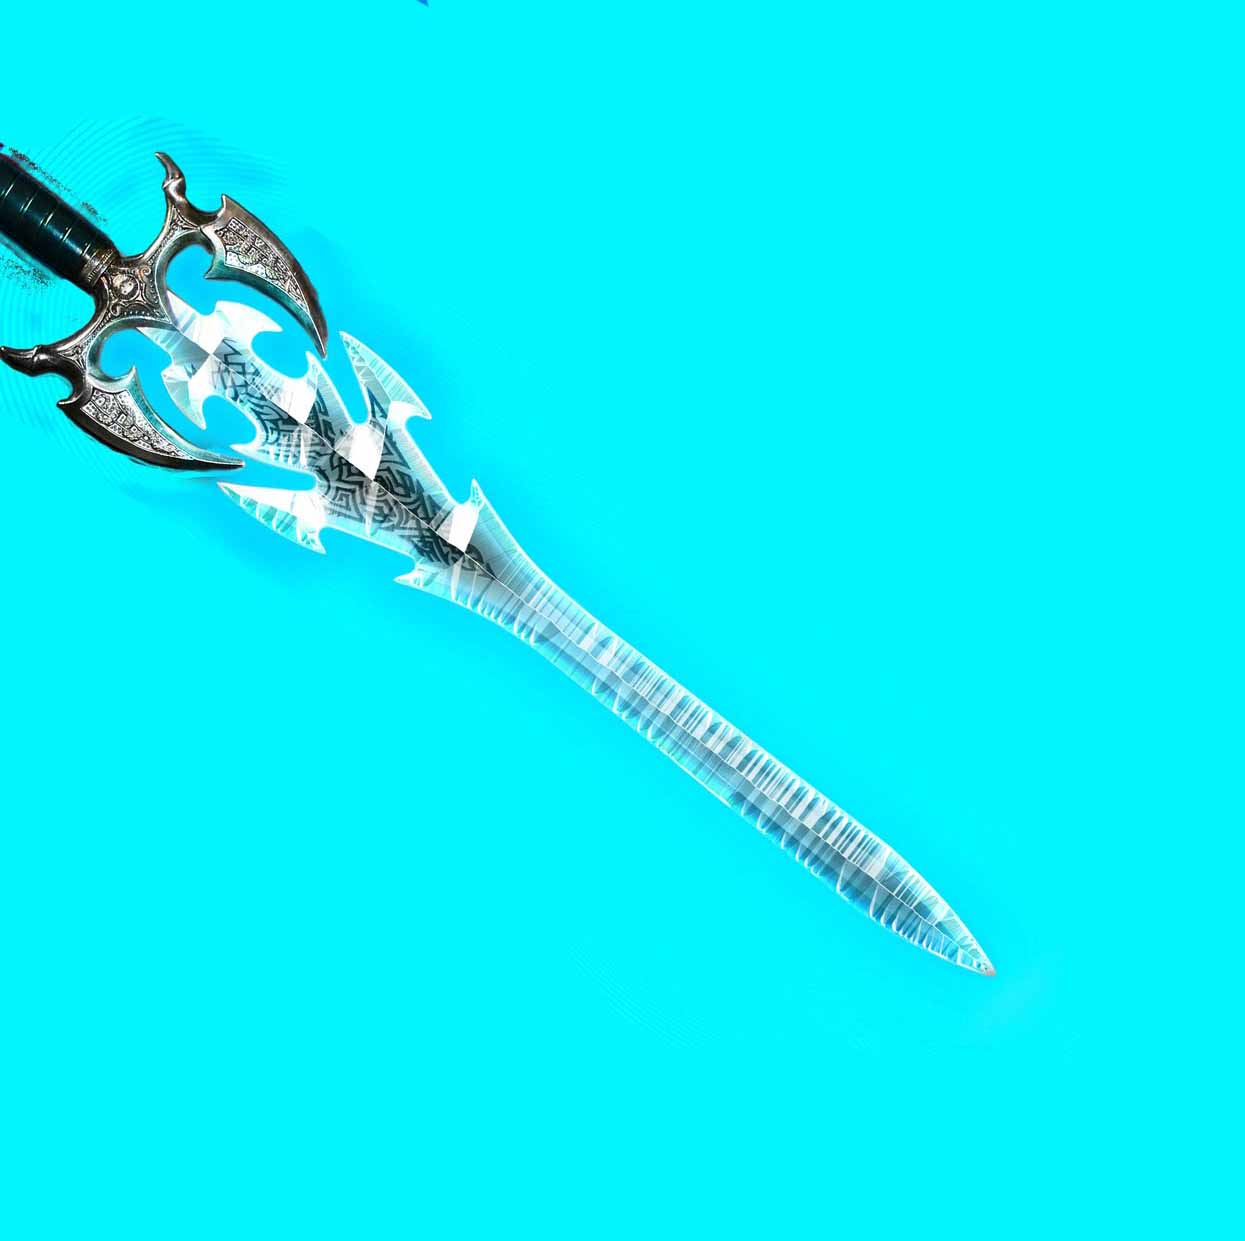
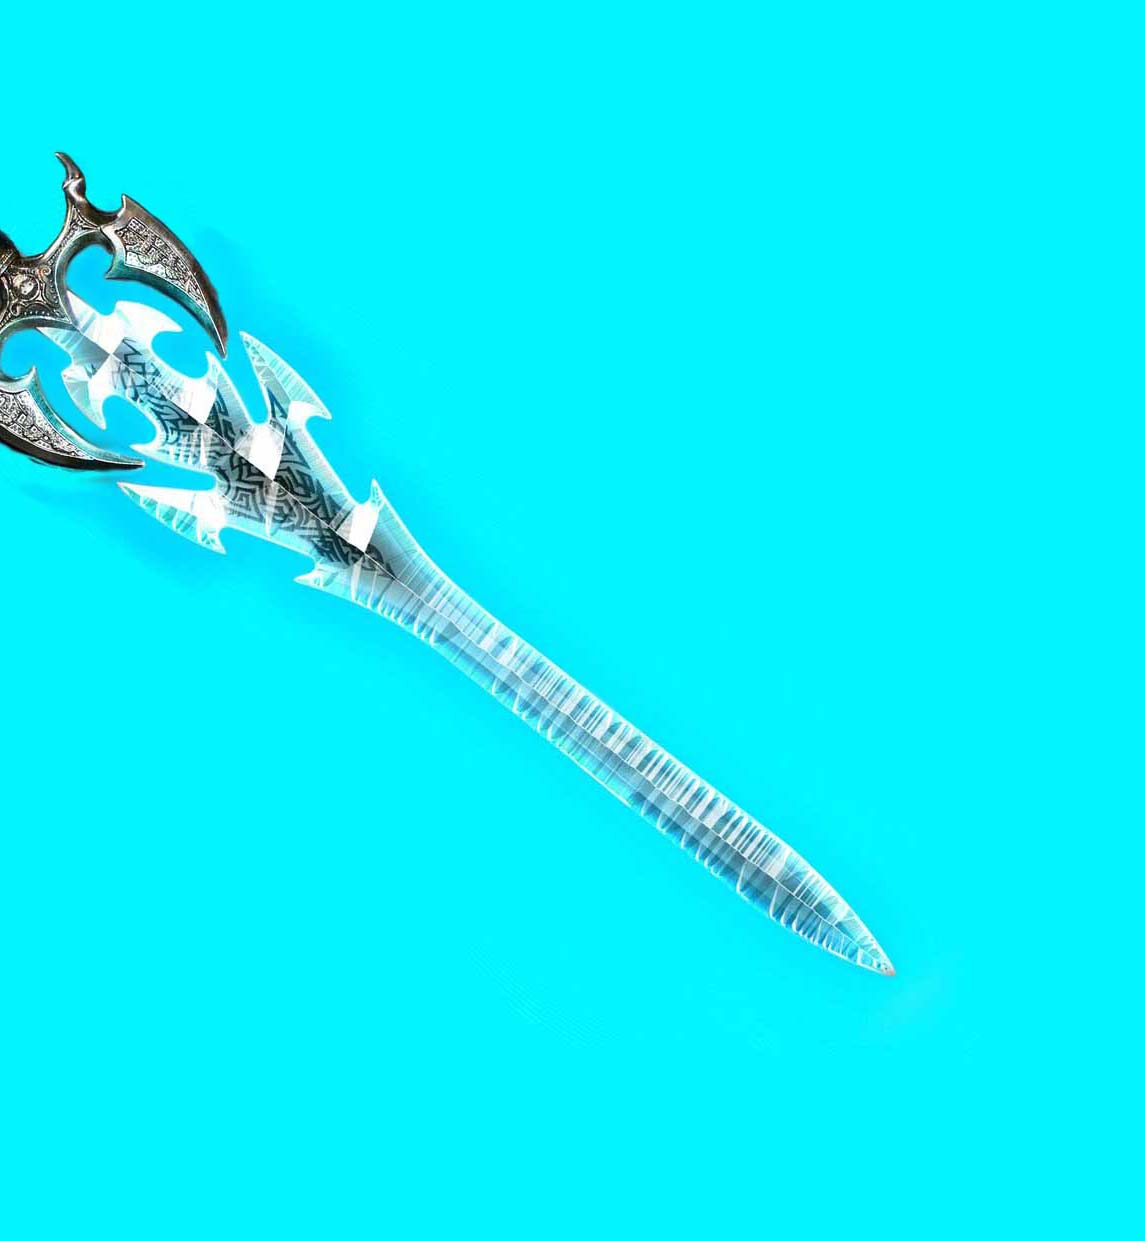
Reduce page weight even more.

Changed region(s): [[0.0, 0.1225, 0.7948, 0.7961]]

diff --git a/portfolio.html b/portfolio.html
@@ -60,7 +60,7 @@
 				<div id="fantasy-images">
 					<a href = "#/main"> <img id="back-button" src="portfolio/images/back-button.png"></a>
 					<img id="fantasy-title" data-fallback="portfolio/images/banners/fantasy-title.png" data-image="portfolio/images/banners/fantasy-title-image.png" data-mask="portfolio/images/banners/fantasy-title-mask.png">
-					<img id="background-sword" data-fallback="portfolio/images/background-images/Sword-background.png" data-image-webp="portfolio/images/background-images/sword-background-image.webp" data-image="portfolio/images/background-images/Sword-background-image.jpg" data-mask="portfolio/images/background-images/Sword-background-mask.png">
+					<img id="background-sword" data-fallback="portfolio/images/background-images/Sword-background.png" data-image="portfolio/images/background-images/Sword-background-image.jpg" data-mask="portfolio/images/background-images/Sword-background-mask.jpg">
 					<img id="background-ring" data-fallback="portfolio/images/background-images/ring.png" data-image="portfolio/images/background-images/ring-image.jpg" data-mask="portfolio/images/background-images/ring-mask.jpg">
 					<img id="background-feather" data-fallback="portfolio/images/background-images/Feather.png" data-image="portfolio/images/background-images/feather-image.jpg" data-mask="portfolio/images/background-images/feather-mask.png">
 					<img id="background-phial" data-fallback="portfolio/images/background-images/phial.png" data-image="portfolio/images/background-images/Phial-image.jpg" data-mask="portfolio/images/background-images/Phial-mask.png">
@@ -72,7 +72,7 @@
 					<img id="background-gun" data-fallback="portfolio/images/background-images/gun-crop.png" data-image="portfolio/images/background-images/gun-image.jpg" data-mask="portfolio/images/background-images/gun-mask.jpg">
 					<img id="background-bullet-1" data-fallback="portfolio/images/background-images/bullet.png" data-image="portfolio/images/background-images/bullet-image.jpg" data-mask="portfolio/images/background-images/bullet-mask.jpg">
 					<img id="background-bullet-2" data-fallback="portfolio/images/background-images/bullet.png" data-image="portfolio/images/background-images/bullet-image.jpg" data-mask="portfolio/images/background-images/bullet-mask.jpg">
-					<img id="background-gears" src="portfolio/images/background-images/gears.jpg">
+					<img id="background-gears" data-fallback="portfolio/images/background-images/gears.jpg" data-image="portfolio/images/background-images/gears-image.jpg" data-mask="portfolio/images/background-images/gears-mask.png">
 
 				</div>
 			</center>

diff --git a/portfolio/css/portfolio.css b/portfolio/css/portfolio.css
@@ -114,7 +114,7 @@ body {
 #background-sword{
 	position: absolute;
 	top: 300px;
-	left: -100px;
+	left: 0px;
 	z-index: -1;
 	overflow: hidden;
 }
@@ -122,7 +122,7 @@ body {
 #background-ring{
 	position: absolute;
 	top: 1300px;
-	left: -50px;
+	left: 0px;
 	overflow: hidden;
 	z-index: -1;
 }
@@ -198,8 +198,8 @@ a:active img{
 
 #background-gears{
 	position: absolute;
-	top: 1200px;
-	right: -200px;
+	top: 1300px;
+	right: 0px;
 	z-index: -1;
 	overflow: hidden;
 }

diff --git a/portfolio/js/portfolio-images.js b/portfolio/js/portfolio-images.js
@@ -78,6 +78,7 @@ function prerenderInnerGlow(){
 	context.fillStyle = "white";
 	context.fill();
 	stackBlurCanvasRGBA(context.canvas, 0, 0, context.canvas.width, context.canvas.height, ITEM_INNER_GLOW_RADIUS);
+	
 	inner_glow_data = new Image()
 	inner_glow_data.src = context.canvas.toDataURL("image/png")
 }
